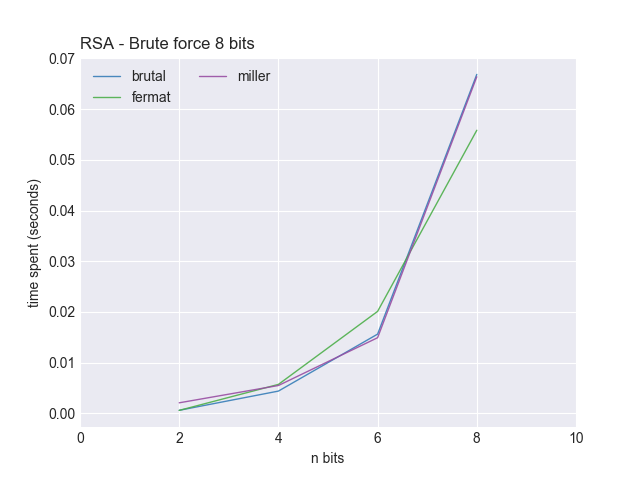
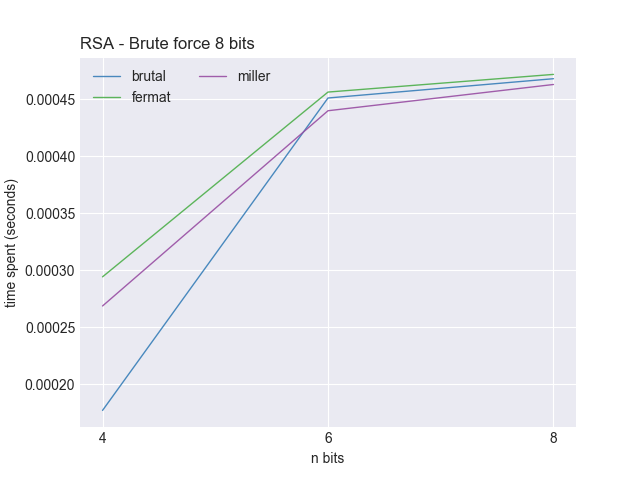
recursive pollard

diff --git a/generic.py b/generic.py
@@ -136,8 +136,8 @@ def find_inverse(a: int, b: int) -> int:
 #http://marathoncode.blogspot.com/2012/08/algoritmo-pollards-rho.html
 #http://code.activestate.com/recipes/577037-pollard-rho-prime-factorization/
 
-def brutal_force_pollard_rho(n: int, e: int) -> int:
-    a, b = 2, 2
+def brutal_force_pollard_rho(n: int, e: int, seed: int = 2) -> int:
+    a, b = seed, seed
     p = 1
 
     while (p == 1):
@@ -147,7 +147,7 @@ def brutal_force_pollard_rho(n: int, e: int) -> int:
         p = gcd( abs(a-b)%n, n)
 
     if p == n:
-        return brutal_force_pollard_rho(n, e)
+        return brutal_force_pollard_rho(n, e, seed+1) #brutal_force_sqrt(n, e,) #
     else:
         q = n // p
         phi = (p - 1) * (q - 1)

diff --git a/graph.py b/graph.py
@@ -25,7 +25,7 @@ def plot(valuesY: dict, valuesX, title: str = "", bits: int = 0) -> None:
         )
 
     plt.legend(loc=2, ncol=2)
-    plt.xticks(np.arange(0, size * 2 + 1, step = 2))
+    plt.xticks(np.arange(4, size * 2 + 1, step = 2))
     plt.xlabel("n bits")
     plt.ylabel("time spent (seconds)")
     plt.title(f"RSA - {title.capitalize()} {bits} bits", loc="left")

diff --git a/rsa_benchmark.py b/rsa_benchmark.py
@@ -16,7 +16,7 @@ def rsa_benchmark(message: str ="Hello World!", bits_limit=24, type="brutal") ->
         timeBrutal = []
         
         for m in range(0, average):
-            print(f"Executando com {bit} bits - Tentativa {m}")
+            # print(f"Executando com {bit} bits - Tentativa {m}")
             start = time.time()
 
             rsa = Rsa()
